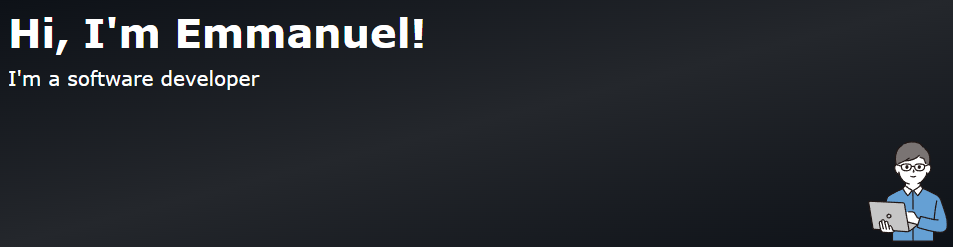
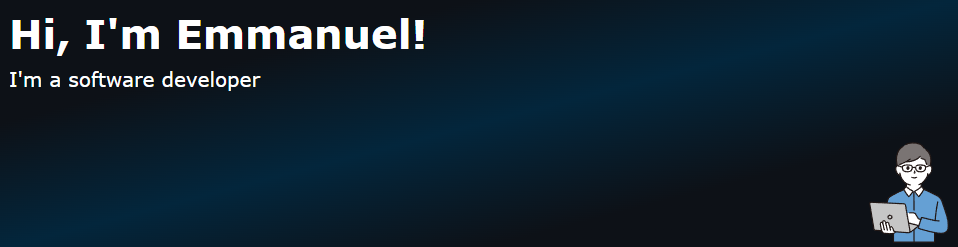
c

diff --git a/style.css b/style.css
@@ -20,7 +20,7 @@ body {
   height: auto;
   min-height: 200px;
   background-color: #07090c;
-  background: linear-gradient(to bottom right, #0D1117, #24272c, #0D1117);
+  background: linear-gradient(to bottom right, #0D1117, #0D1117, #03263c, #0D1117, #0D1117);
   padding: 8px;
 
   & p {
